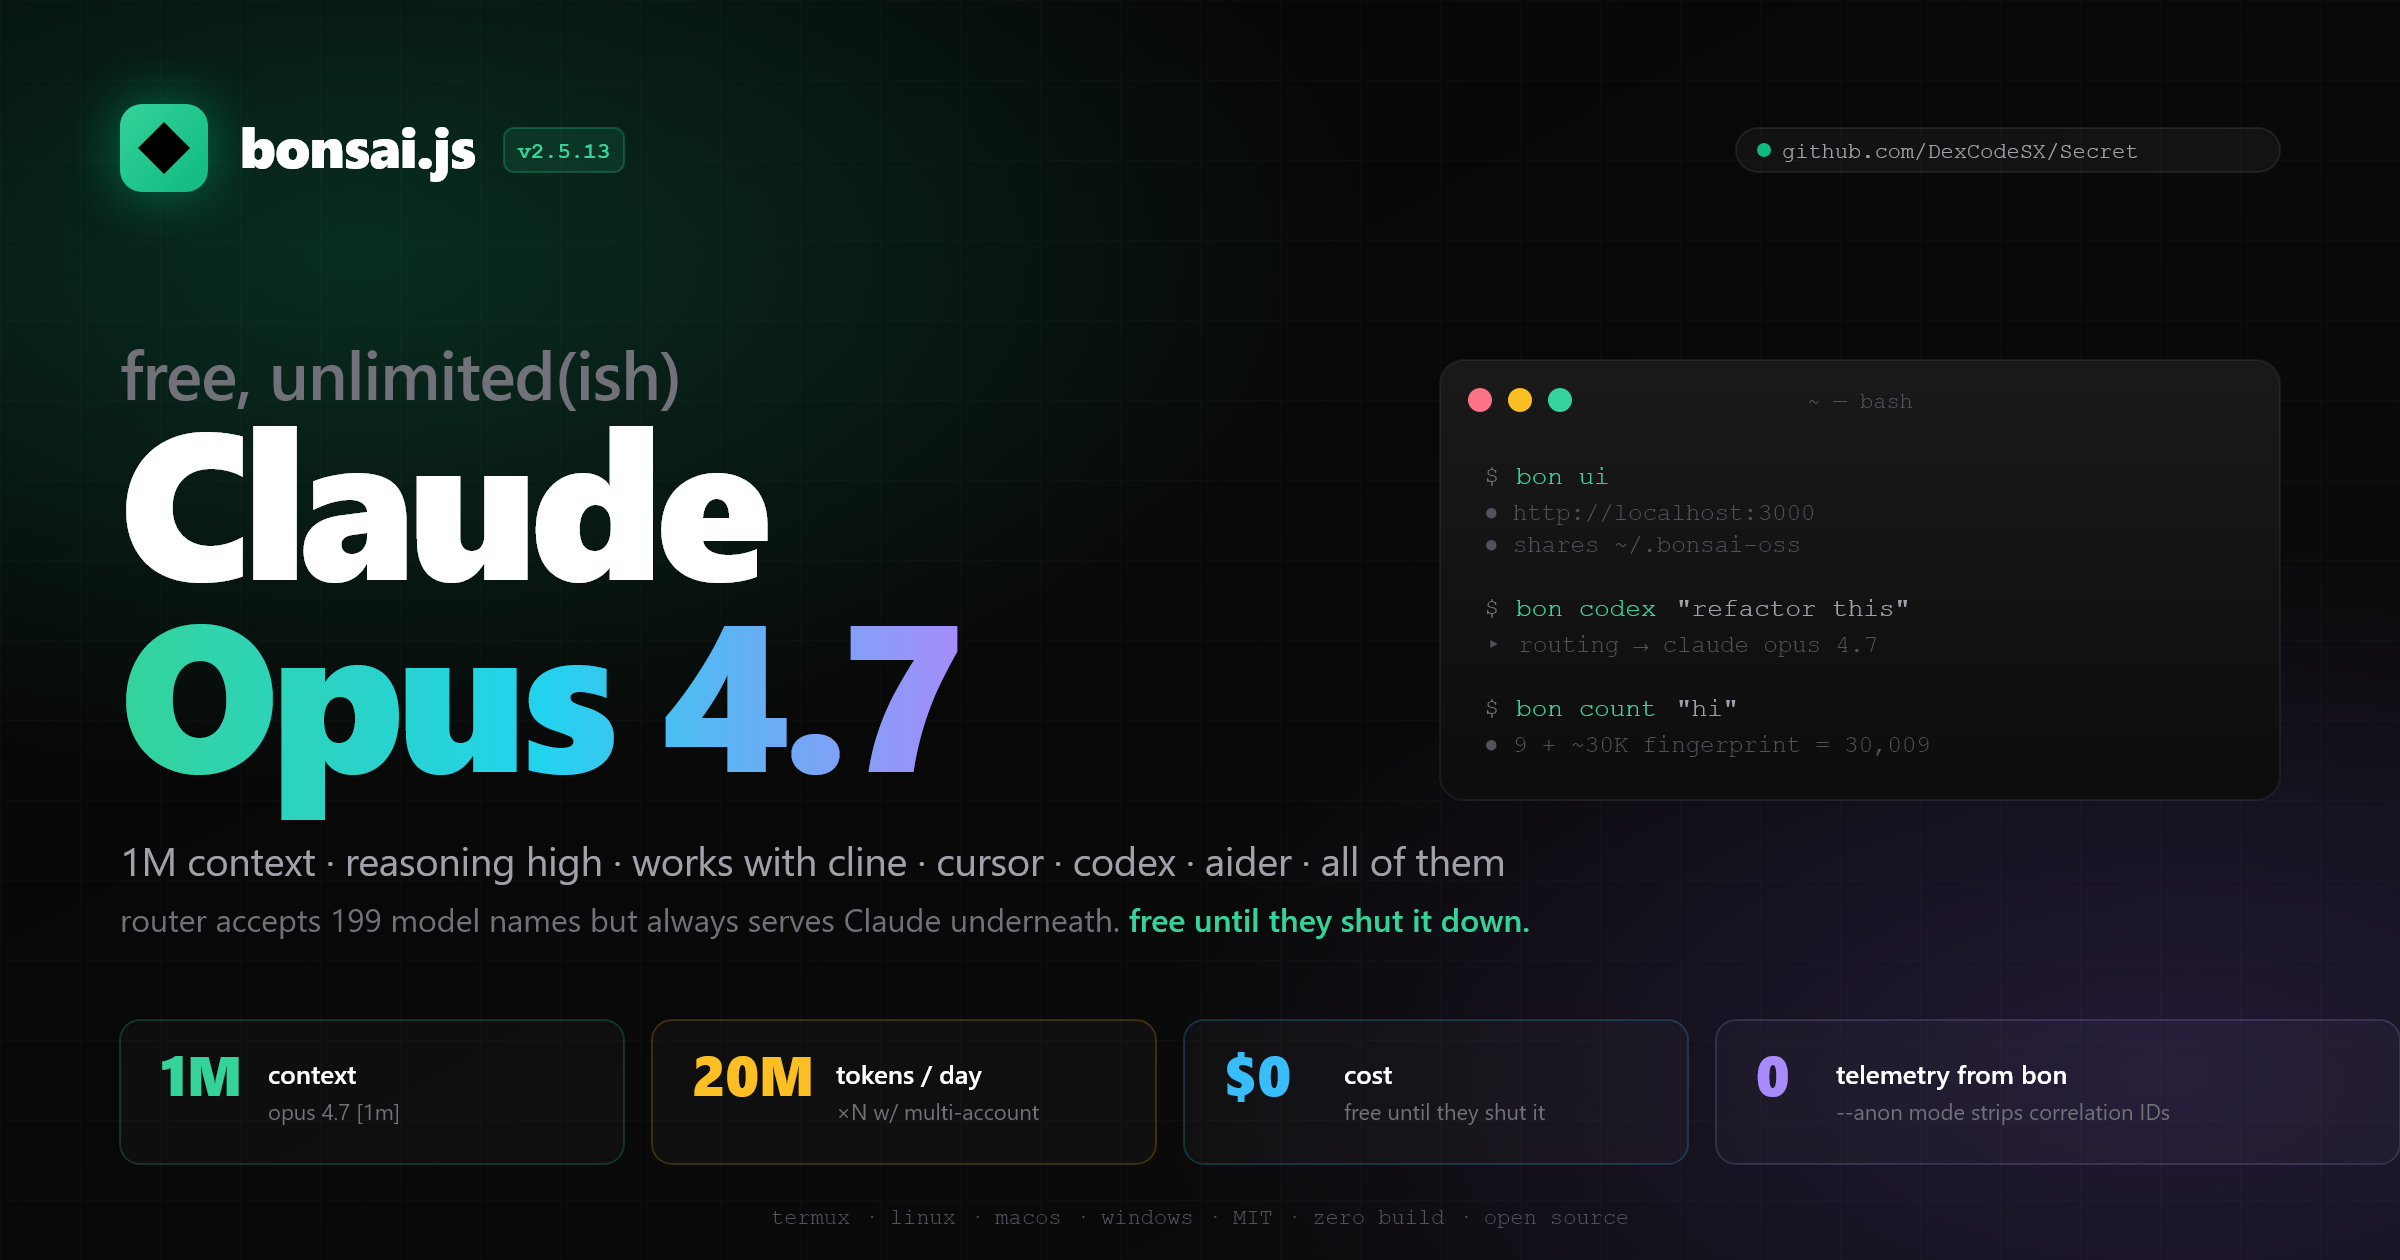
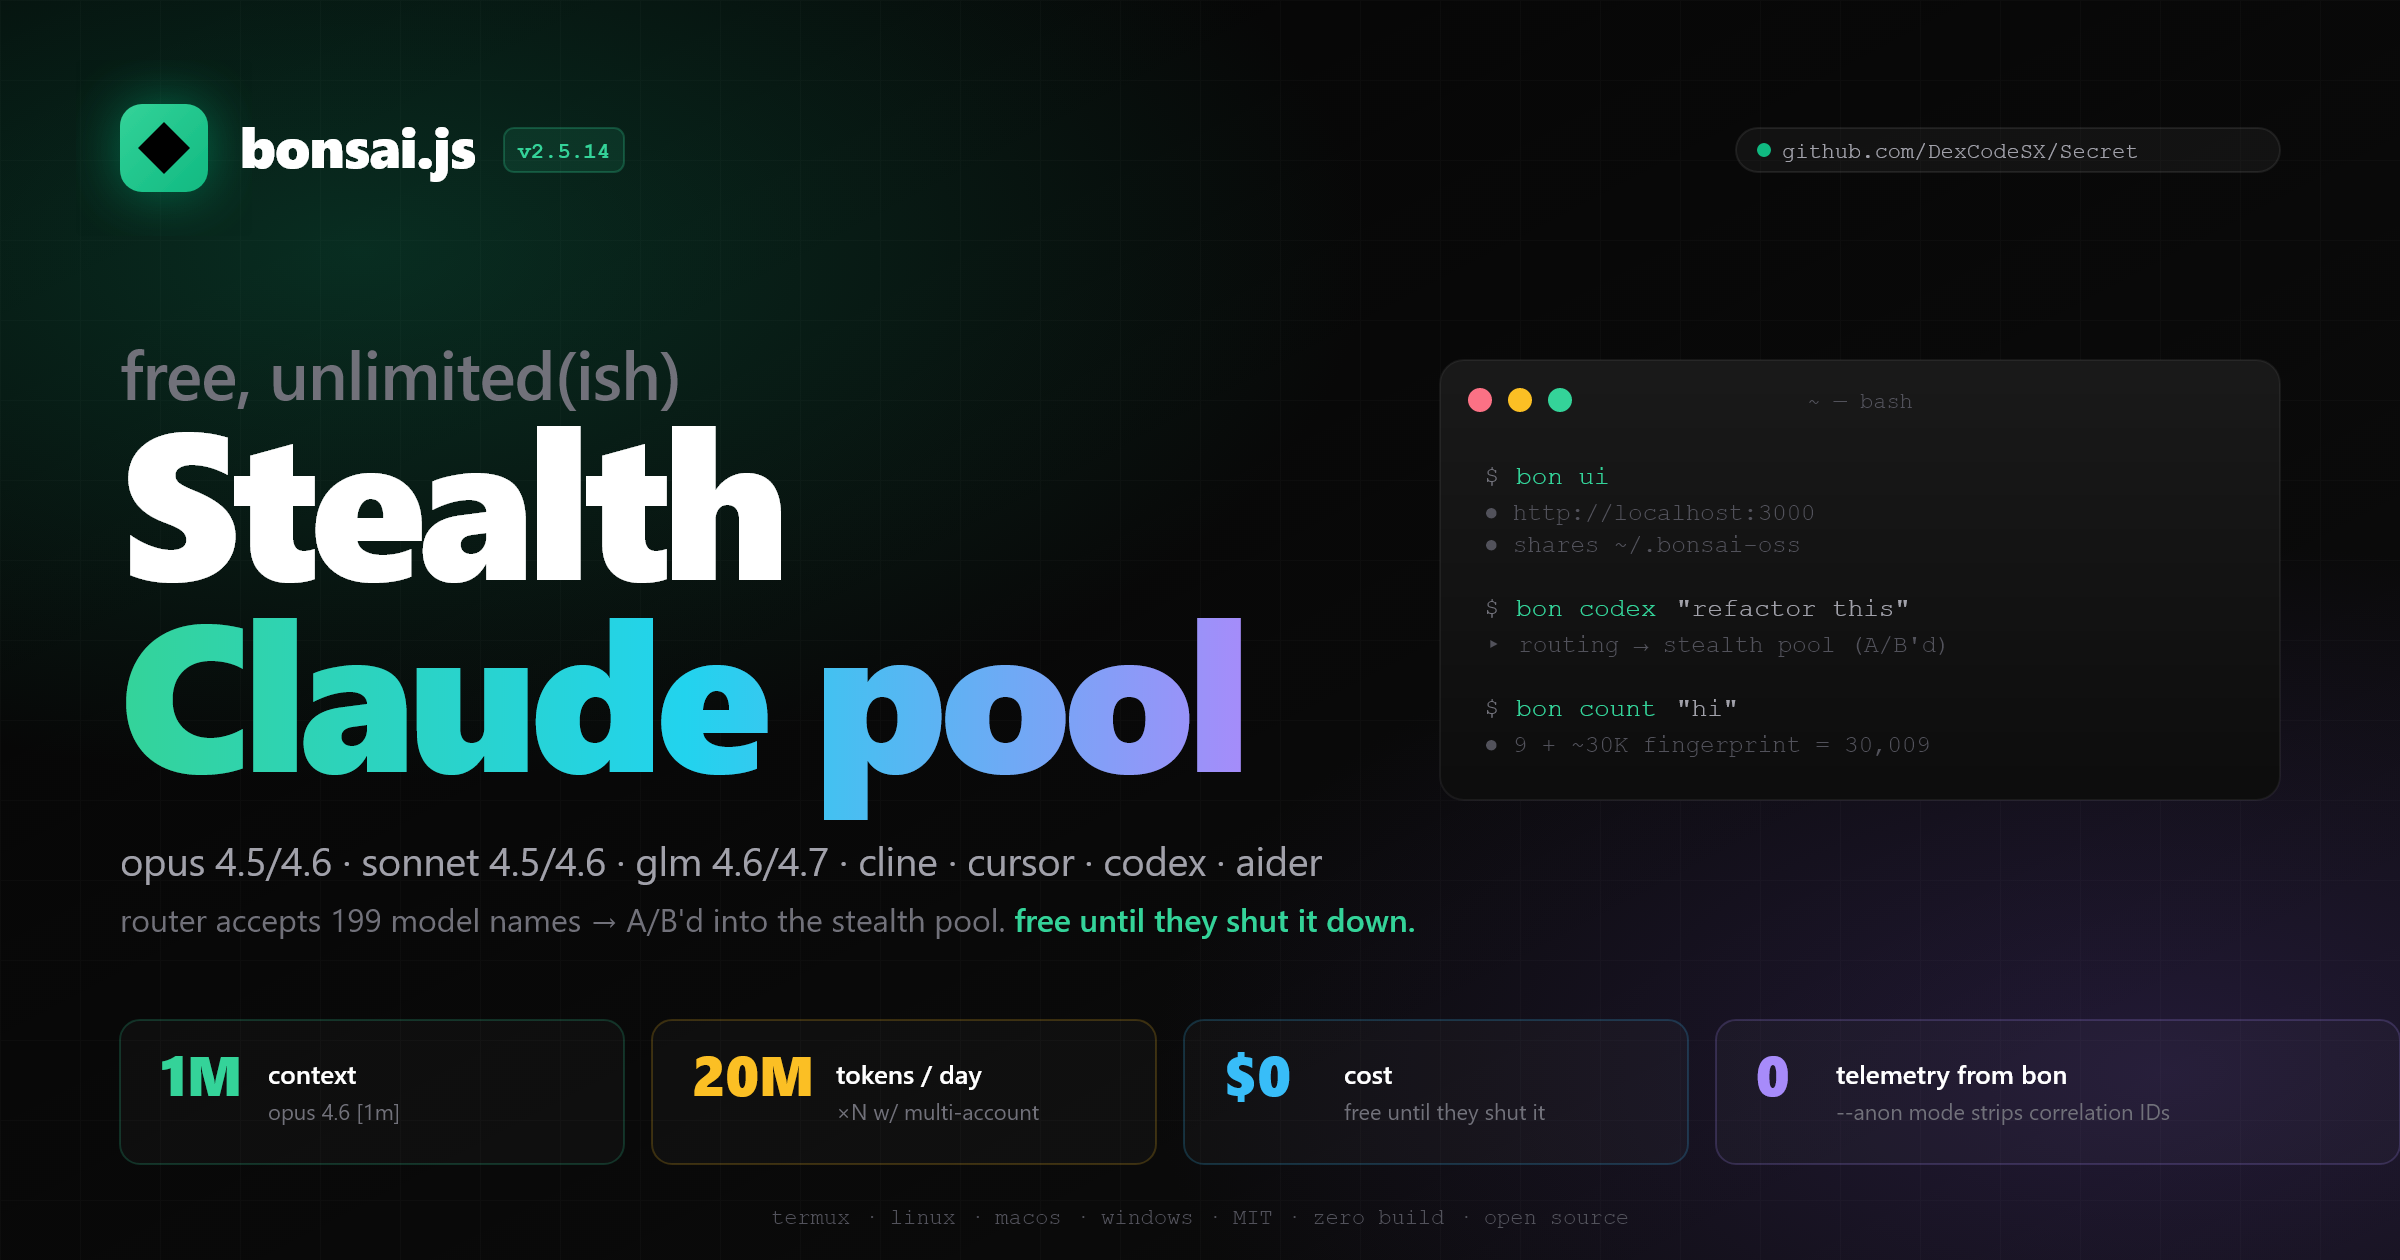
release: v2.5.14

Changed region(s): [[0.0312, 0.4952, 0.625, 0.7429], [0.0312, 0.3405, 0.3438, 0.4643]]

diff --git a/api.js b/api.js
@@ -19,7 +19,7 @@ import path from 'path';
 import os from 'os';
 import crypto from 'crypto';
 
-const VER = "2.5.13";
+const VER = "2.5.14";
 const ROUTER = process.env.BONSAI_ROUTER_URL || "https://go.trybons.ai";
 const cfgDir = path.join(os.homedir(), '.bonsai-oss');
 const isWin = process.platform === 'win32';

diff --git a/bonsai.js b/bonsai.js
@@ -13,7 +13,7 @@ import https from 'https';
 import http from 'http';
 import crypto from 'crypto';
 
-const VERSION = "2.5.13";
+const VERSION = "2.5.14";
 const REPO = "DexCodeSX/Secret";
 const REPO_RAW = `https://raw.githubusercontent.com/${REPO}/main`;
 const isWin = process.platform === 'win32';

diff --git a/README.md b/README.md
@@ -5,7 +5,7 @@
 </p>
 
 <p align="center">
-  <img src="https://img.shields.io/badge/version-2.5.13-green?style=for-the-badge" />
+  <img src="https://img.shields.io/badge/version-2.5.14-green?style=for-the-badge" />
   <img src="https://img.shields.io/badge/node-%3E%3D18-blue?style=for-the-badge&logo=node.js" />
   <img src="https://img.shields.io/badge/platform-windows%20%7C%20linux%20%7C%20macos%20%7C%20termux-purple?style=for-the-badge" />
   <img src="https://img.shields.io/badge/license-MIT-orange?style=for-the-badge" />
@@ -38,7 +38,7 @@
 ---
 
 <details>
-<summary><b>📜 Latest changes (v2.5.13) — click to expand</b></summary>
+<summary><b>📜 Latest changes (v2.5.14) — click to expand</b></summary>
 
 **v2.5.x — web UI + docs in browser**
 - **`bon ui`** — launches a full local web dashboard on `http://localhost:3000` (express + ejs + htmx + tailwind, zero build, ~5 MB deps). shares session w/ `bon` CLI via `~/.bonsai-oss/`. mobile responsive (hamburger drawer, stacked grids). multi-account dropdown w/ click-to-switch + smart "+ add another account" auto-flow.
